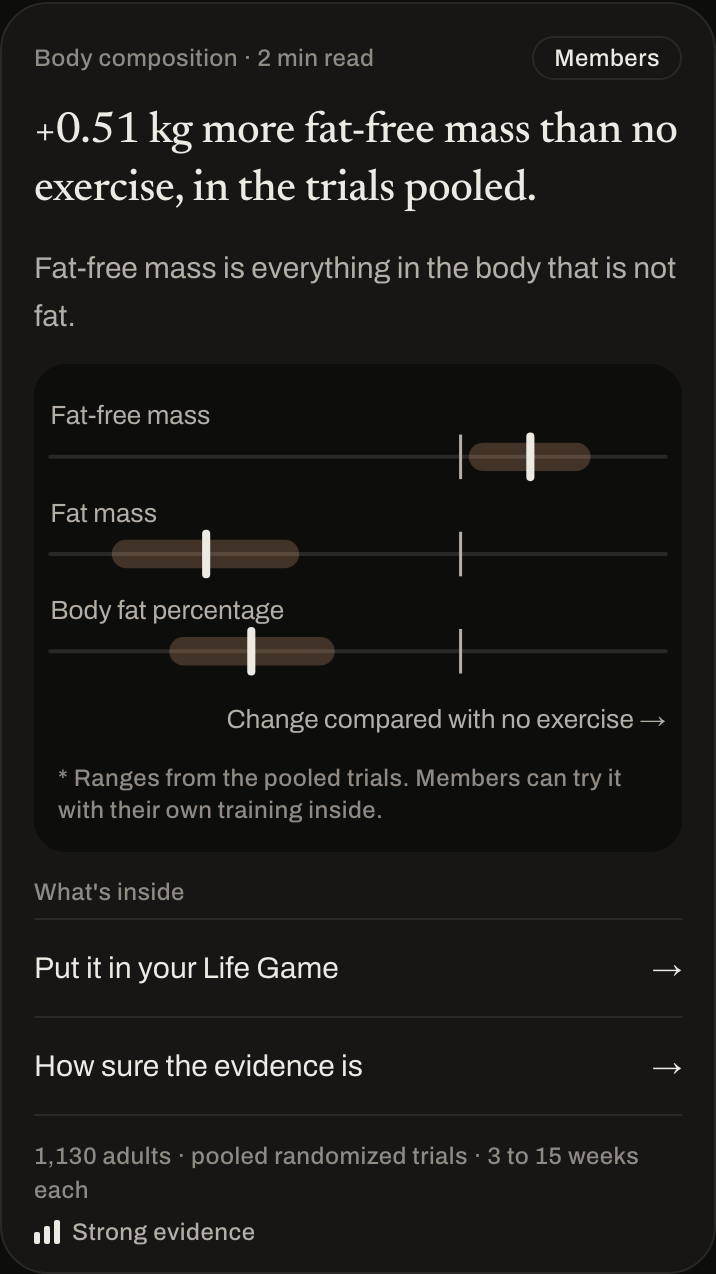
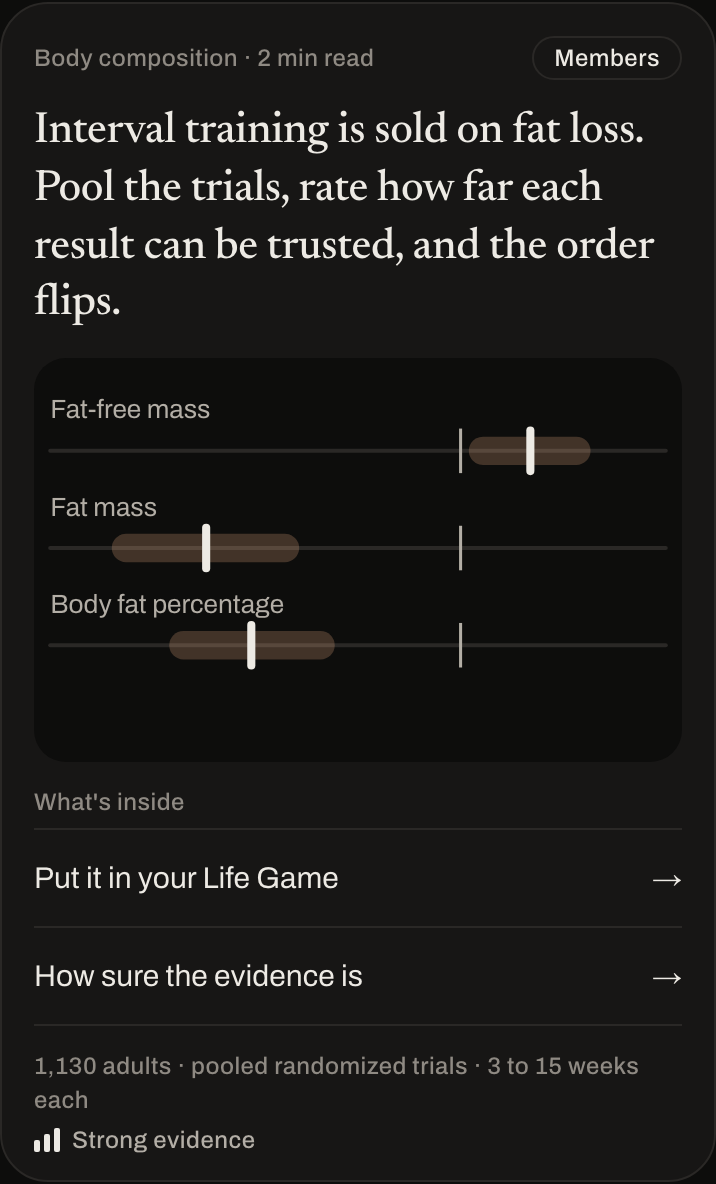
Readability handoff: members' card keeps to amendment A (hook + one figure, glance view); evidence and HANDOFF updated

diff --git a/lib/content/generated.ts b/lib/content/generated.ts
@@ -75,7 +75,7 @@ export const PAPERS: PaperMeta[] = [
       "figure": {
         "figure": "what-was-measured",
         "caption": [],
-        "alt": "Three lines, each with a mark for no change. Fat-free mass: 0.51 kg more. Fat mass: 1.86 kg less. Body fat percentage: 1.53 points less.",
+        "alt": "Three rows, one for each body measure, each with a shaded range and a mark for no change.",
         "params": {
           "rows": [
             {
@@ -143,90 +143,6 @@ export const PAPERS: PaperMeta[] = [
             }
           ]
         }
-      },
-      "glance": {
-        "headline": "+0.51 kg more fat-free mass than no exercise, in the trials pooled.",
-        "support": "Fat-free mass is everything in the body that is not fat.",
-        "figure": {
-          "figure": "what-was-measured",
-          "caption": [],
-          "alt": "Three rows, one for each body measure, each with a shaded range and a mark for no change.",
-          "params": {
-            "rows": [
-              {
-                "label": "Fat-free mass",
-                "kind": "measured",
-                "fact": {
-                  "id": "ffm_all",
-                  "kind": "estimate",
-                  "label": "Fat-free mass, all interval training vs control",
-                  "quote": "HIIT induced an overall significant improvement in FFM (WMD: 0.51 kg, 95% CI: 0.06 to 0.95",
-                  "why": "The authors rated how sure they are of this pooled result with a standard checklist, and rated it high.",
-                  "estimate": {
-                    "outcome": "Fat-free mass",
-                    "measure": "WMD",
-                    "point": 0.51,
-                    "ciLow": 0.06,
-                    "ciHigh": 0.95,
-                    "unit": "kg",
-                    "absolute": true,
-                    "tier": "high"
-                  }
-                }
-              },
-              {
-                "label": "Fat mass",
-                "kind": "measured",
-                "fact": {
-                  "id": "fm_all",
-                  "kind": "estimate",
-                  "label": "Fat mass, all interval training vs control",
-                  "quote": "HIIT resulted in a significant reduction in FM (WMD: −1.86 kg, 95% CI: −2.55 to −1.18",
-                  "why": "The authors rated how sure they are of this pooled result with a standard checklist, and rated it moderate.",
-                  "estimate": {
-                    "outcome": "Fat mass",
-                    "measure": "WMD",
-                    "point": -1.86,
-                    "ciLow": -2.55,
-                    "ciHigh": -1.18,
-                    "unit": "kg",
-                    "absolute": true,
-                    "tier": "moderate"
-                  }
-                }
-              },
-              {
-                "label": "Body fat percentage",
-                "kind": "measured",
-                "fact": {
-                  "id": "bf_all",
-                  "kind": "estimate",
-                  "label": "Body fat percentage, all interval training vs control",
-                  "quote": "induced a significant reduction in BF% [weighted mean difference (WMD): −1.53%, 95% CI: −2.13, −0.92",
-                  "why": "The authors rated how sure they are of this pooled result with a standard checklist, and rated it low.",
-                  "estimate": {
-                    "outcome": "Body fat percentage",
-                    "measure": "WMD",
-                    "point": -1.53,
-                    "ciLow": -2.13,
-                    "ciHigh": -0.92,
-                    "unit": "points",
-                    "absolute": true,
-                    "tier": "low"
-                  }
-                }
-              }
-            ]
-          }
-        },
-        "axes": {
-          "x": "Change compared with no exercise",
-          "y": null
-        },
-        "alt": "Three rows, one for each body measure, each with a shaded range and a mark for no change.",
-        "note": "Ranges from the pooled trials. Members can try it with their own training inside.",
-        "tryIt": "pick your training",
-        "tier": "high"
       }
     }
   },

diff --git a/components/read/Feed.tsx b/components/read/Feed.tsx
@@ -9,8 +9,9 @@
  *   band) with its note, "What's inside" (rows that open the read at a slot; the "Try it" row is
  *   the card's one orange), and the source line with the grade.
  *
- * A members' read draws the same card from PaperMeta.card.glance (written by the content build),
- * and lists only the slots everyone can open. The words come from lib/content/glance.ts.
+ * A members' read shows only what amendment A makes public: its hook as the headline and one
+ * figure (PaperMeta.card), here in its glance view, and lists only the slots everyone can open.
+ * The words come from lib/content/glance.ts.
  *
  * No endless scroll: the published papers, twenty at a time.
  */
@@ -60,7 +61,10 @@ function KindGlance({ content, view }: { content: PaperContent; view: GlanceView
 export function PostCard({ paper }: { paper: PaperMeta }) {
   const members = paper.accessTier === "premium";
   const read = members ? undefined : freeContent(paper.slug);
-  const view = read ? glanceView(read) : paper.card?.glance;
+  // A members' read makes public its hook and one figure, nothing else (amendment A).
+  const view = read ? glanceView(read) : null;
+  const still = paper.card?.figure ?? null;
+  const tier = view ? view.tier : paper.grades[0]?.tier ?? null;
   const rows = insideRows({ members, why: read ? whyHeading(read) : null, tryIt: view?.tryIt });
   const href = `/papers/${paper.slug}`;
 
@@ -79,6 +83,10 @@ export function PostCard({ paper }: { paper: PaperMeta }) {
               ? <FigureFor slug={paper.slug} figure={view.figure} glance={view.axes} />
               : read ? <KindGlance content={read} view={view} /> : null}
             <figcaption className="label mx-3 mt-2" data-glance-note>* {view.note}</figcaption>
+          </figure>
+        ) : still ? (
+          <figure className="rounded-2xl bg-bg py-3" data-glance>
+            <FigureFor slug={paper.slug} figure={still} glance={{ x: null, y: null }} />
           </figure>
         ) : null}
       </Link>
@@ -103,7 +111,7 @@ export function PostCard({ paper }: { paper: PaperMeta }) {
 
       <p className="label flex flex-wrap items-center justify-between gap-x-3 gap-y-1 px-4 py-3">
         <span data-source-line>{read?.sourceLine ?? paper.sourceLine}</span>
-        {view?.tier ? <GradeChip grade={view.tier} /> : null}
+        {tier ? <GradeChip grade={tier} /> : null}
       </p>
     </article>
   );

diff --git a/scripts/glance.test.ts b/scripts/glance.test.ts
@@ -43,7 +43,8 @@ const drawnText = (html: string) => [...html.matchAll(/<text[^>]*>([\s\S]*?)<\/t
 
 const CARDS = PAPERS.map((paper) => {
   const content = FREE_CONTENT[paper.slug];
-  const view = content ? glanceView(content) : paper.card!.glance!;
+  // A members' card: its hook and one figure only (amendment A), drawn in the glance view with no words of its own.
+  const view = content ? glanceView(content) : ({ figure: paper.card!.figure, axes: { x: null, y: null }, alt: "" } as unknown as GlanceView);
   return { slug: paper.slug, members: paper.accessTier === "premium", content, view, html: drawGlance(paper.slug, view, content) };
 });
 
@@ -57,7 +58,7 @@ describe("the still figure prints no number, and its shape is the study's", () =
       const text = drawnText(html);
       expect(text.length).toBeGreaterThan(0);
       for (const t of text) expect(t, `"${t}"`).not.toMatch(/\p{N}/u);
-      expect(text.join(" ")).toContain(view.axes.x);
+      if (view.axes.x) expect(text.join(" ")).toContain(view.axes.x);
       expect(html).toMatch(/data-fact="[^"]+"/);
     });
   }
@@ -81,7 +82,6 @@ describe("the card's words", () => {
     expect(by["steps-days-per-week"].headline).toBe("−14.9 points lower 10-year risk of death, compared with 0 days a week.");
     expect(by["daytime-caffeine-sleep"].headline).toBe("Sleep showed no clear difference from placebo nights.");
     expect(by["daytime-caffeine-sleep"].note).toBe("Curve shape from another study. Try it with your own coffee inside.");
-    expect(by["hiit-body-composition"].headline).toMatch(/^\+0\.51 kg /);
   });
 });
 
@@ -98,8 +98,10 @@ describe("What's inside", () => {
     expect(rows.map((r) => r.slot)).toEqual([SLOTS.protocol, SLOTS.evidence]);
     expect(rows.some((r) => r.accent)).toBe(false);
   });
-  it("the members' card in the public bundle draws one of its figures, never its simulator", () => {
+  it("the members' card in the public bundle is its hook and one figure, nothing else: its glance figure", () => {
     const hiit = CARDS.find((c) => c.members)!;
+    const paper = PAPERS.find((p) => p.slug === hiit.slug)!;
+    expect(Object.keys(paper.card!).sort()).toEqual(["figure", "hook"]);
     expect(hiit.view.figure?.figure).toBe("what-was-measured");
     expect(FREE_CONTENT[hiit.slug]).toBeUndefined();
     expect(gated[hiit.slug].glance.figure?.figure).toBe("what-was-measured");

diff --git a/tests/browser/article-redesign.spec.ts b/tests/browser/article-redesign.spec.ts
@@ -24,12 +24,18 @@ test.describe("the feed", () => {
     for (const paper of papers) {
       const card = page.locator(`[data-post="${paper.slug}"]`);
       const content = freeContent(paper.slug);
-      const view = content ? glanceView(content) : paper.card!.glance!;
-      await expect(card.getByRole("heading", { level: 2 })).toHaveText(view.headline);
-      await expect(card.locator("[data-glance-support]")).toHaveText(view.support);
       await expect(card.getByText(`${paper.category} · ${paper.readMinutes} min read`)).toBeVisible();
       await expect(card.locator("[data-glance] svg[data-figure]"), `${paper.slug}: the figure`).toBeVisible();
-      await expect(card.locator("[data-glance-note]")).toHaveText(`* ${view.note}`);
+      if (content) {
+        const view = glanceView(content);
+        await expect(card.getByRole("heading", { level: 2 })).toHaveText(view.headline);
+        await expect(card.locator("[data-glance-support]")).toHaveText(view.support);
+        await expect(card.locator("[data-glance-note]")).toHaveText(`* ${view.note}`);
+      } else {
+        // A members' read: its hook and one figure, nothing else of it (amendment A).
+        await expect(card.getByRole("heading", { level: 2 })).toHaveText(paper.card!.hook);
+        await expect(card.locator("[data-glance-support], [data-glance-note]")).toHaveCount(0);
+      }
       await expect(card.getByText(/^(Early|Decent|Strong) evidence$/).first(), `${paper.slug}: the grade chip`).toBeVisible();
       await expect(card, `${paper.slug}: no weight`).not.toContainText("×");
       await expect(card.locator("[data-source-line]")).toHaveText(content ? content.sourceLine : paper.sourceLine);

diff --git a/components/figures/primitives/GlanceAxes.tsx b/components/figures/primitives/GlanceAxes.tsx
@@ -8,14 +8,14 @@ import { Label } from "./Label";
  * no values. The y label sits over the left axis, the x label under the right end with an
  * arrow, so both read left to right at phone width.
  */
-export function GlanceAxes({ x, y, frame = GLANCE_FRAME, left = true }: { x: string; y?: string | null; frame?: Frame; left?: boolean }) {
+export function GlanceAxes({ x, y, frame = GLANCE_FRAME, left = true }: { x: string | null; y?: string | null; frame?: Frame; left?: boolean }) {
   const a = glanceAxes(frame);
   return (
     <g data-glance-axes>
       {left ? <line x1={a.left} x2={a.left} y1={a.top} y2={a.bottom} stroke={INK} strokeWidth={1.5} /> : null}
       <line x1={a.left} x2={a.right} y1={a.bottom} y2={a.bottom} stroke={INK} strokeWidth={1.5} />
       {y ? <Label x={a.yLabel.x} y={a.yLabel.y} tone="muted" size={GLANCE_FRAME.size}>{y}</Label> : null}
-      <Label x={a.xLabel.x} y={a.xLabel.y} anchor="end" tone="muted" size={GLANCE_FRAME.size}>{`${x} →`}</Label>
+      {x ? <Label x={a.xLabel.x} y={a.xLabel.y} anchor="end" tone="muted" size={GLANCE_FRAME.size}>{`${x} →`}</Label> : null}
     </g>
   );
 }

diff --git a/lib/content/types.ts b/lib/content/types.ts
@@ -116,7 +116,7 @@ export interface PaperMeta {
    * A members' read only: the part of it the feed shows to everyone (its hook
    * and its mechanism figure). Everything else stays behind row level security.
    */
-  card?: { hook: string; figure: FigureRef | null; glance?: GlanceView };
+  card?: { hook: string; figure: FigureRef | null };
 }
 
 /** What the feed card shows at a glance: plain words, one still figure (lib/content/glance.ts). */
@@ -124,9 +124,9 @@ export interface GlanceView {
   /** The key finding, with its number first for an estimate ("−14.9 points lower ..."). */
   headline: string;
   support: string;
-  /** null: the read's figure kind, drawn still (free reads only). */
+  /** null: the read's figure kind, drawn still. */
   figure: FigureRef | null;
-  axes: { x: string; y: string | null };
+  axes: { x: string | null; y: string | null };
   alt: string;
   note: string;
   tryIt: string;

diff --git a/components/figures/kinds/AssociationCurve.tsx b/components/figures/kinds/AssociationCurve.tsx
@@ -146,7 +146,7 @@ export function AssociationCurve({ mode, raw, adjusted, groups, alt, sourceLine,
  * first group is the comparison, on the line of no difference; every other group shows its
  * adjusted difference as a peach band with its point. Axis labels in words, no ticks, no values.
  */
-export function AssociationGlance({ adjusted, groups, alt, x, y }: { adjusted: ResolvedFact[]; groups: GroupEdges[]; alt: string; x: string; y?: string | null }) {
+export function AssociationGlance({ adjusted, groups, alt, x, y }: { adjusted: ResolvedFact[]; groups: GroupEdges[]; alt: string; x: string | null; y?: string | null }) {
   if (!glanceDrawable(groups, adjusted)) return null;
   for (const fact of adjusted) assertEvidence("measured", fact);
   const { zeroY, columns } = associationGlance(groups, adjusted);

diff --git a/components/figures/kinds/Decay.tsx b/components/figures/kinds/Decay.tsx
@@ -161,7 +161,7 @@ export function Decay({ mode, halfLife, alt, sourceLine, note, beside, words = W
  * band of half-lives the study's spread gives, between two axes labelled in words. No ticks
  * and no values: the shape is the gated fact's, the numbers stay in the read.
  */
-export function DecayGlance({ halfLife, alt, x, y }: { halfLife: ResolvedFact; alt: string; x: string; y?: string | null }) {
+export function DecayGlance({ halfLife, alt, x, y }: { halfLife: ResolvedFact; alt: string; x: string | null; y?: string | null }) {
   const point = halfLife.estimate?.point;
   if (point === undefined) return null;
   assertEvidence("measured", halfLife);

diff --git a/components/papers/turmeric-pepper-breakfast/figures/FiveReadings.tsx b/components/papers/turmeric-pepper-breakfast/figures/FiveReadings.tsx
@@ -36,7 +36,7 @@ export default function FiveReadings({ params, alt, interactive = true, glance }
             rows={p.meals.map((meal) => ({ label: meal.label, flagged: meal.differed.map((time) => time.n) }))}
           />
         </g>
-        <Label x={312} y={220} anchor="end" tone="muted" size={13}>{`${glance.x} →`}</Label>
+        {glance.x ? <Label x={312} y={220} anchor="end" tone="muted" size={13}>{`${glance.x} →`}</Label> : null}
       </Figure>
     );
   }

diff --git a/components/papers/registry.tsx b/components/papers/registry.tsx
@@ -36,7 +36,7 @@ export interface FigureProps {
    * The glance view (owner, 2026-11-14), the feed card's still figure: axis labels in words
    * (these), no numeric ticks or values, the gated range as a peach band.
    */
-  glance?: { x: string; y: string | null };
+  glance?: { x: string | null; y: string | null };
 }
 
 const WIDGETS: Record<string, ComponentType<WidgetProps>> = {

diff --git a/components/papers/hiit-body-composition/figures/WhatWasMeasured.tsx b/components/papers/hiit-body-composition/figures/WhatWasMeasured.tsx
@@ -29,7 +29,7 @@ export default function WhatWasMeasured({ params, alt, glance }: FigureProps) {
             />
           );
         })}
-        <Label x={312} y={168} anchor="end" tone="muted" size={13}>{`${glance.x} →`}</Label>
+        {glance.x ? <Label x={312} y={168} anchor="end" tone="muted" size={13}>{`${glance.x} →`}</Label> : null}
       </Figure>
     );
   }

diff --git a/docs/HANDOFF.md b/docs/HANDOFF.md
@@ -63,11 +63,13 @@ The interactive part is the product; the text is what justifies it.
 | Phase 9, 2D: the read rebuilt (hook, mechanism, number card, protocol, receipts), the feed of whole posts at `/library`, one interactive figure (turmeric's readings grid), motion tokens for toggles | Built; round 2 of the review done 2026-11-14 (next row) | `docs/evidence/article-redesign/` (before/after, dark/light), `phase9-2d-search-the-build.txt` (0 matches), `tests/browser/article-redesign.spec.ts` |
 | Phase 9, 2D round 2: the feed is the home page (`/`), the tracker is `/today`, `/library` answers 308; the Life Game slot on top of the feed; "Start on: Feed / Life Game" (Me, kept on the device); larger hooks; figure kinds (`lib/content/figure-kinds.ts`, `components/figures/kinds/Decay.tsx`, `lib/models/decay.ts`) and rule H12 | Built. **The decay kind is drawn by no read yet**: caffeine has no gated half-life | `docs/evidence/article-redesign/round2/`, `lib/pipeline/figure-spec.test.ts`, `scripts/decay-kind.test.ts`, `tests/http/members-content.test.ts` |
 | Fourth paper `turmeric-pepper-breakfast` (free, three layers, hand-written: no model run, so it does not count toward the Phase 10 gate) | Approved; on the hosted database and on `main`/Vercel (`80e1caa`) | BUILD-LOG 2026-11-13 and 2026-11-14 |
+| Simulators drawn by kind, live: caffeine decay (half-life from the context study `caffeine-saliva-half-life`), steps association-curve | Live on `main` | `docs/evidence/simulators/`, `tests/browser/simulators.spec.ts` |
+| Readability pass 1–7 (owner, 2026-11-14): tokens + contrast table (all ≥ 4.5:1), orange once per screen, plain-language lint rules, finding cards, source line (who · design · how long) + grade words/3-bar meter/tap for why (no weight on any screen), feed card at a glance with "What's inside" deep links, hosted seed, figure plans (SIMULATORS.md j) | Built 1–6; 7 is plans only. ⏸ waiting on the owner | `docs/evidence/readability/` (contrast.md, plain-rules-broken.txt, hosted-seed.txt, feed/read/card screenshots dark + light), `scripts/visual-system.test.ts`, `lib/pipeline/plain.test.ts`, `lib/evidence-words.test.ts`, `scripts/glance.test.ts`, `tests/browser/readability.spec.ts`, `tests/browser/source-line.spec.ts` |
 | Documents: `CLAUDE.md`, `docs/MANUAL.md`, `ARCHITECTURE.md`, `data-model.md`, `BUILD-LOG.md` | Written | — |
 
-Totals on 2026-11-14 (after the model adoption, crossover and spread work): 397 unit tests
-(`docs/evidence/unit-tests.txt`); 14 HTTP and 34 browser tests (not re-run this session);
-191 database assertions per pass and 16 of 16 mutations (unchanged: no SQL touched since).
+Totals on 2026-11-14 (after readability 1–7): 512 unit tests (`docs/evidence/unit-tests.txt`);
+14 HTTP tests (`http-tests.txt`) and 75 browser tests (`browser-tests.txt`); 191 database
+assertions per pass and 16 of 16 mutations (unchanged: no SQL touched since).
 Outputs are in `docs/evidence/`.
 
 ### Deployment state (2026-11-14)
@@ -76,7 +78,8 @@ Outputs are in `docs/evidence/`.
   GitHub and the hosted database are level (four published papers); the hosted seed was
   brought level on the owner's "go" on 2026-11-14 (4 papers, 31 steps).
 - Hosted Supabase project `takhienzcshgkytbvaii`: all migrations to
-  `20261114000100_set_step_amount.sql`, and the seed as of the turmeric release (applied with
+  `20261114000100_set_step_amount.sql`, and the seed as of readability 6 (pushed on the owner's
+  "go", 2026-11-14; dry run reports up to date: `docs/evidence/readability/hosted-seed.txt`) (applied with
   `supabase db query --remote -f supabase/seed.sql`; see MANUAL 3.3). **No hosted command
   without the owner's "go" (2026-11-14).** anonymous sign-ins on; CAPTCHA
   (Turnstile) on. `NEXT_PUBLIC_TURNSTILE_SITE_KEY` is set in Vercel and `.env.local`.
